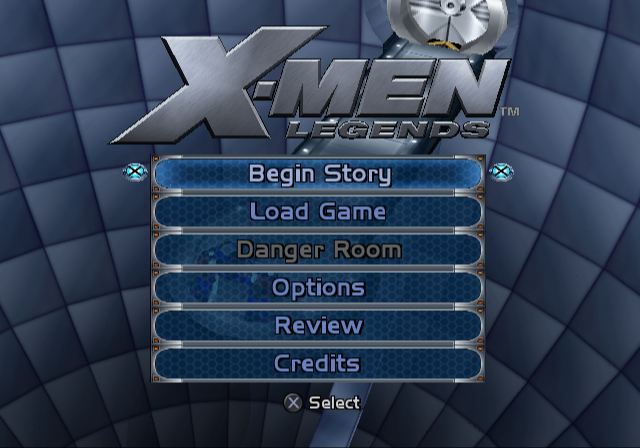
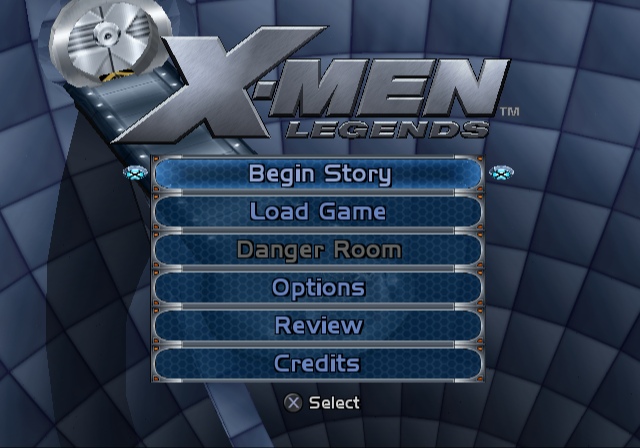
Document natural title rendering milestone

diff --git a/README.md b/README.md
@@ -10,12 +10,12 @@ An experimental static recompilation of the North American PlayStation 2 release
 The game now executes far beyond initial boot and has reached each of these milestones in the native PC runtime:
 
 - Stable legal and memory-card screens.
-- Complete title UI and the 3D Cerebro chamber through a reversible startup-movie override.
+- Complete title UI and the 3D Cerebro chamber after a reversible startup-movie bypass.
 - ZAUDIO stream creation, buffering, and playback service calls.
 - Level loading and first in-engine gameplay through a reversible development override.
 - Retail SFD file I/O, PSS demux, MPEG/IPU submission, and ADX block transport.
 
-The current retail-path blocker is producing and presenting correct Sofdec video frames. The demux advances through the movie and its ADX audio header and blocks arrive intact, but the visible video output is still invalid. The Cerebro scene now renders with its textures and animated camera, although one moving object or material can still show rainbow/chrome corruption. The full acceptance target remains: legal screen, all startup SFD movies with audio, an issue-free title scene, and playable gameplay without graphical or audio defects.
+The current retail-path blocker is producing and presenting correct Sofdec video frames. The demux advances through the movie and its ADX audio header and blocks arrive intact, but the visible video output is still invalid. The title level now reaches a clean, complete Cerebro scene using the game's own GIF transfers; coalescing duplicate pending DMAC completion events fixed the skipped texture upload that previously required a diagnostic repair. The full acceptance target remains: legal screen, all startup SFD movies with audio, an issue-free title scene, and playable gameplay without graphical or audio defects.
 
 ## Bring-up Screenshots
 
@@ -24,7 +24,7 @@ These are direct runtime framebuffer captures, not emulator or desktop captures.
 | Title UI | New York loading screen |
 | --- | --- |
 | ![Complete X-Men Legends title menu and 3D Cerebro chamber rendered by the recompiled runtime](docs/screenshots/title-menu.png) | ![New York loading screen rendered by the recompiled runtime](docs/screenshots/new-york-loading.png) |
-| The complete title UI and textured 3D Cerebro chamber render through the startup-movie override. A moving material still corrupts intermittently in later frames. | The first-level loading artwork and text render from the retail game data. |
+| The complete title UI and textured 3D Cerebro chamber render naturally after bypassing the unfinished startup movies. No game-specific title-texture repair is active. | The first-level loading artwork and text render from the retail game data. |
 
 ### First Gameplay Frame
 
@@ -118,7 +118,6 @@ Input is implemented, but the complete retail flow is not yet ready for normal p
 
 - Sofdec SFD file reads and demux advance, but startup movies do not yet produce correct presented video frames.
 - The ADX header and compressed blocks traverse the movie audio ring correctly; audible SFD playback is not yet verified end to end.
-- The animated 3D Cerebro chamber renders, but one moving object or material intermittently shows rainbow/chrome corruption.
 - Gameplay is reachable through development overrides, with outstanding world, material, HUD, and texture defects.
 - Performance is diagnostic-build quality; timing and resource use have not been optimized for release.
 - The current TOML contains workspace-specific absolute paths.
@@ -128,11 +127,11 @@ Input is implemented, but the complete retail flow is not yet ready for normal p
 Runtime and recompiler changes are developed in the public [GTTeancum/PS2Recomp fork](https://github.com/GTTeancum/PS2Recomp). General fixes are split into focused submissions to upstream PS2Recomp:
 
 - [#225: Support configurable callable entry points](https://github.com/ran-j/PS2Recomp/pull/225)
-- [#226: Delay GIF DMA completion interrupts](https://github.com/ran-j/PS2Recomp/pull/226)
+- [#226: Delay and coalesce GIF DMA completion interrupts](https://github.com/ran-j/PS2Recomp/pull/226)
 - [#227: Preserve framebuffer rows in interlaced presentation](https://github.com/ran-j/PS2Recomp/pull/227)
 - [#228: Support profile-defined SJRMT UNI storage](https://github.com/ran-j/PS2Recomp/pull/228)
 
-All four submissions are open and mergeable as of August 28, 2026. Game-specific diagnostics and unfinished compatibility work remain on `codex/xmen-legends-bringup` until they can be reduced to reusable changes with focused tests.
+All four submissions are open and mergeable as of August 29, 2026. Game-specific diagnostics and unfinished compatibility work remain on `codex/xmen-legends-bringup` until they can be reduced to reusable changes with focused tests.
 
 ## Legal
 
